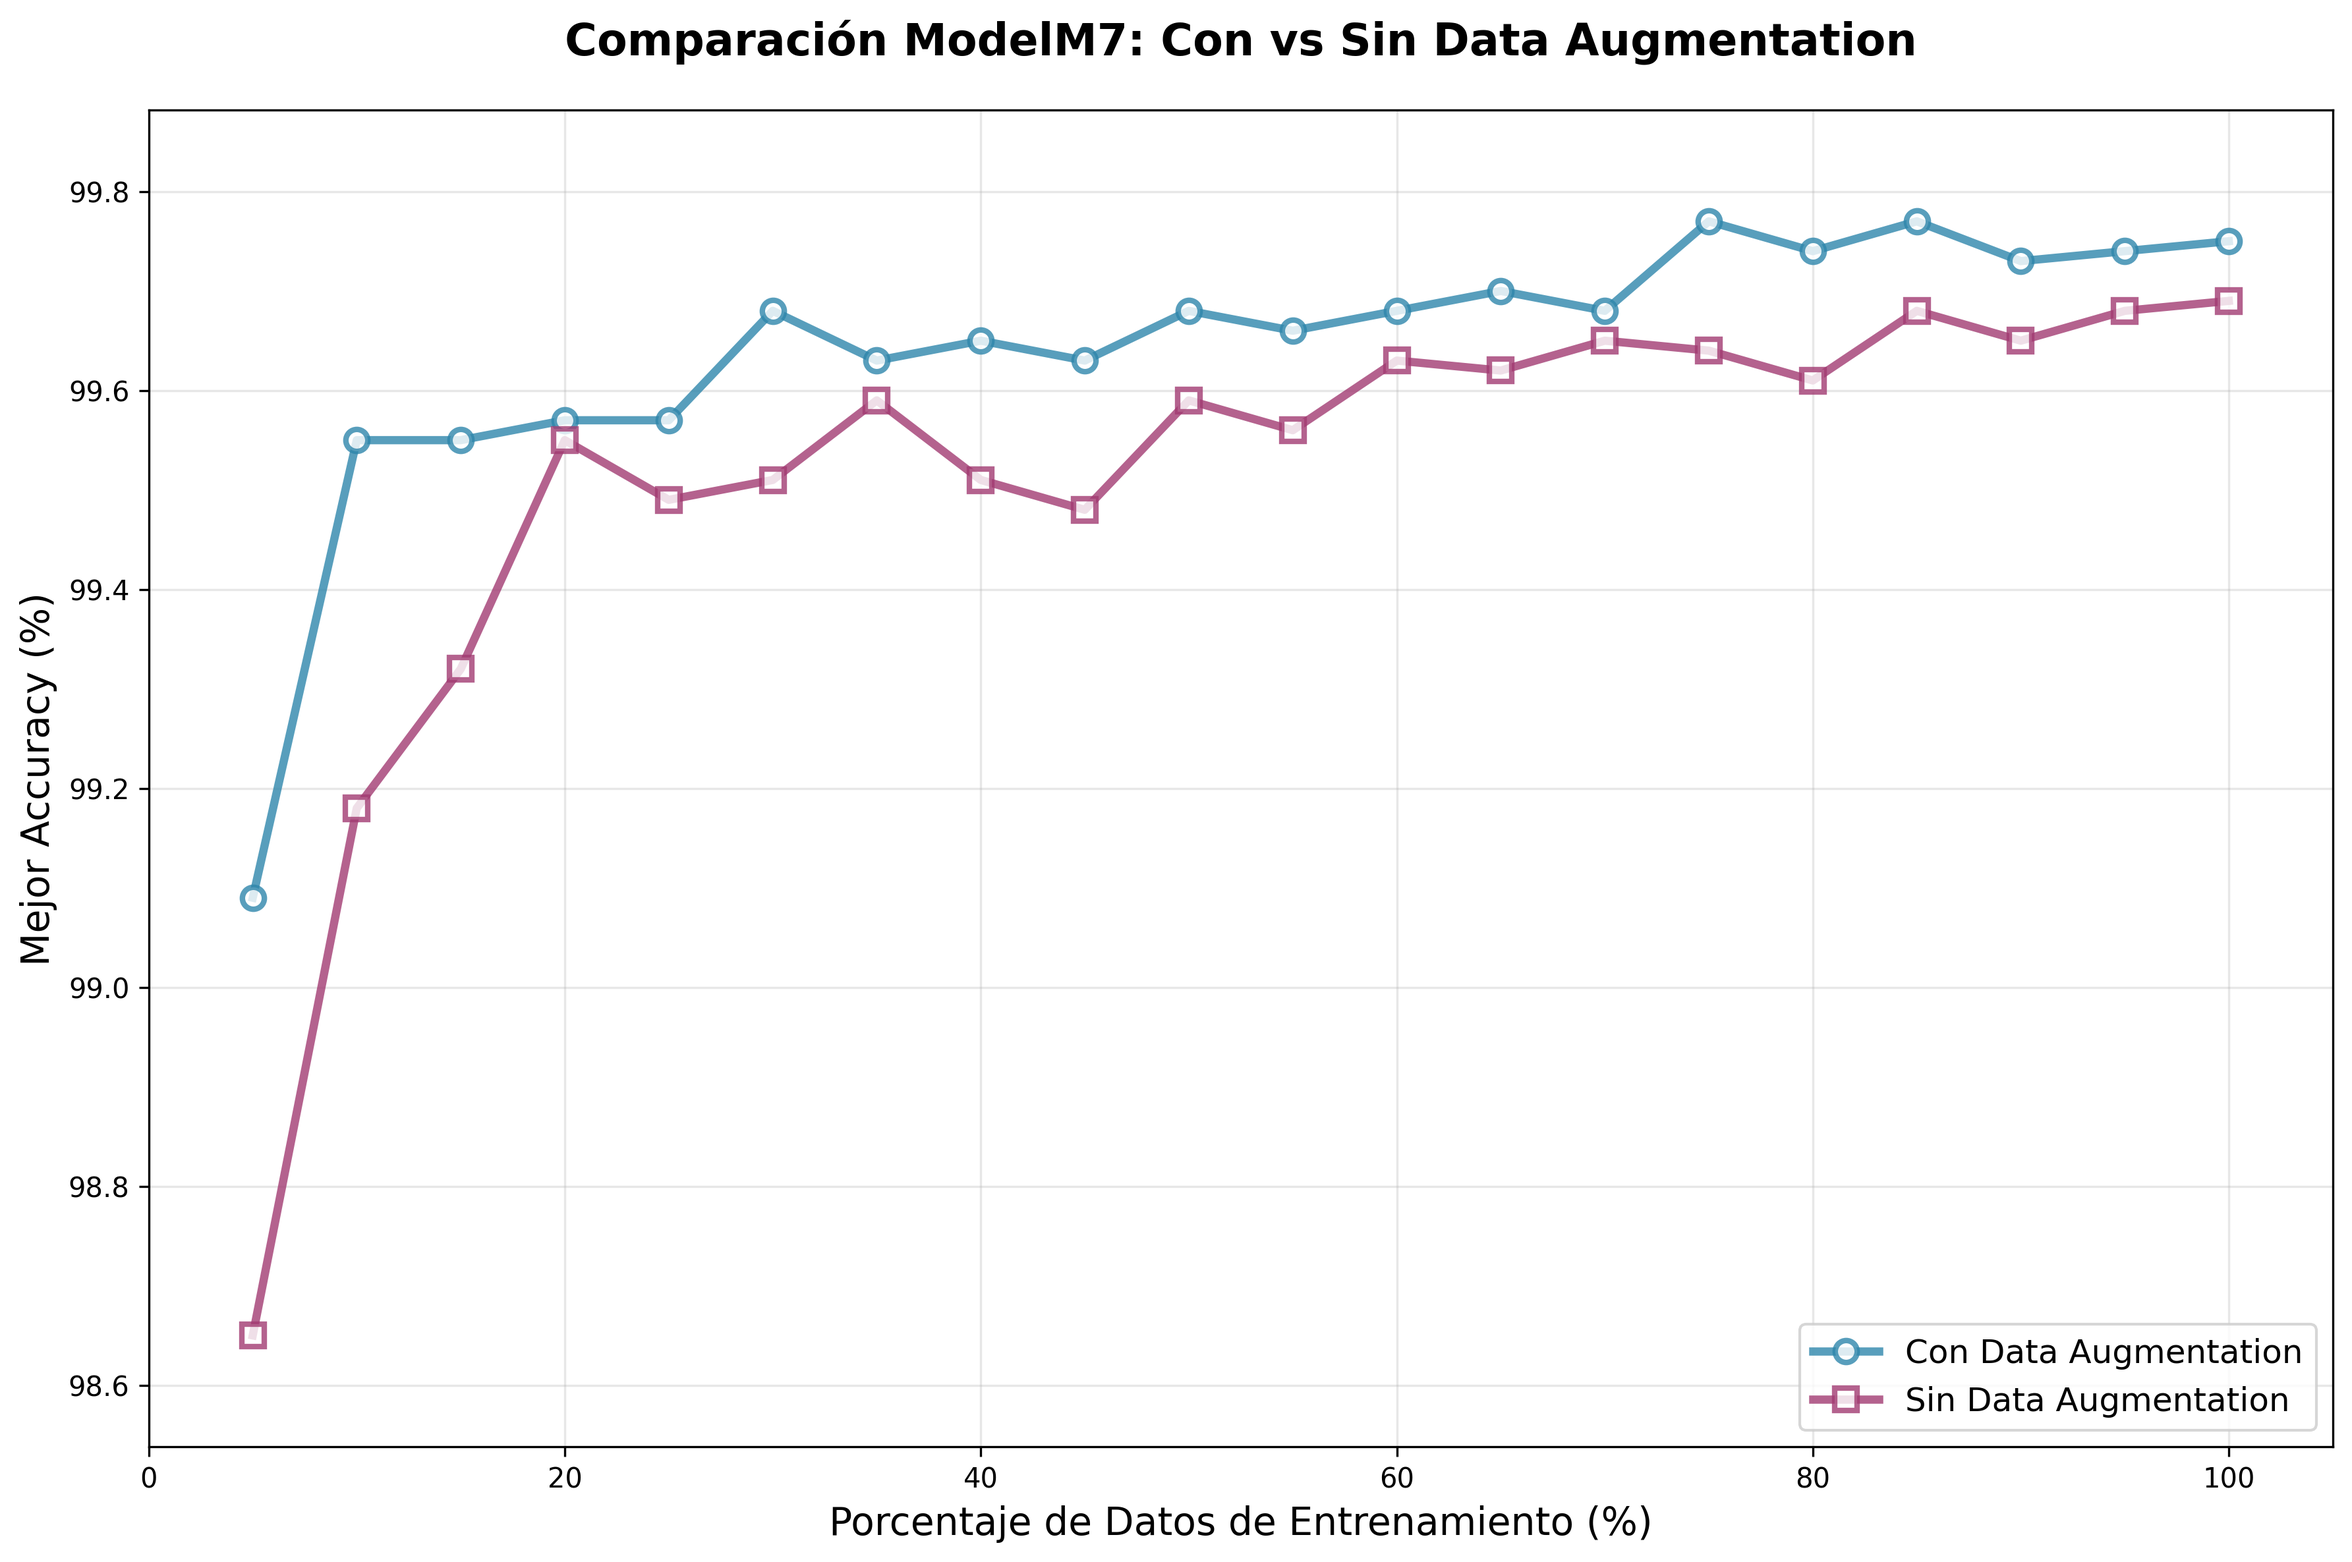
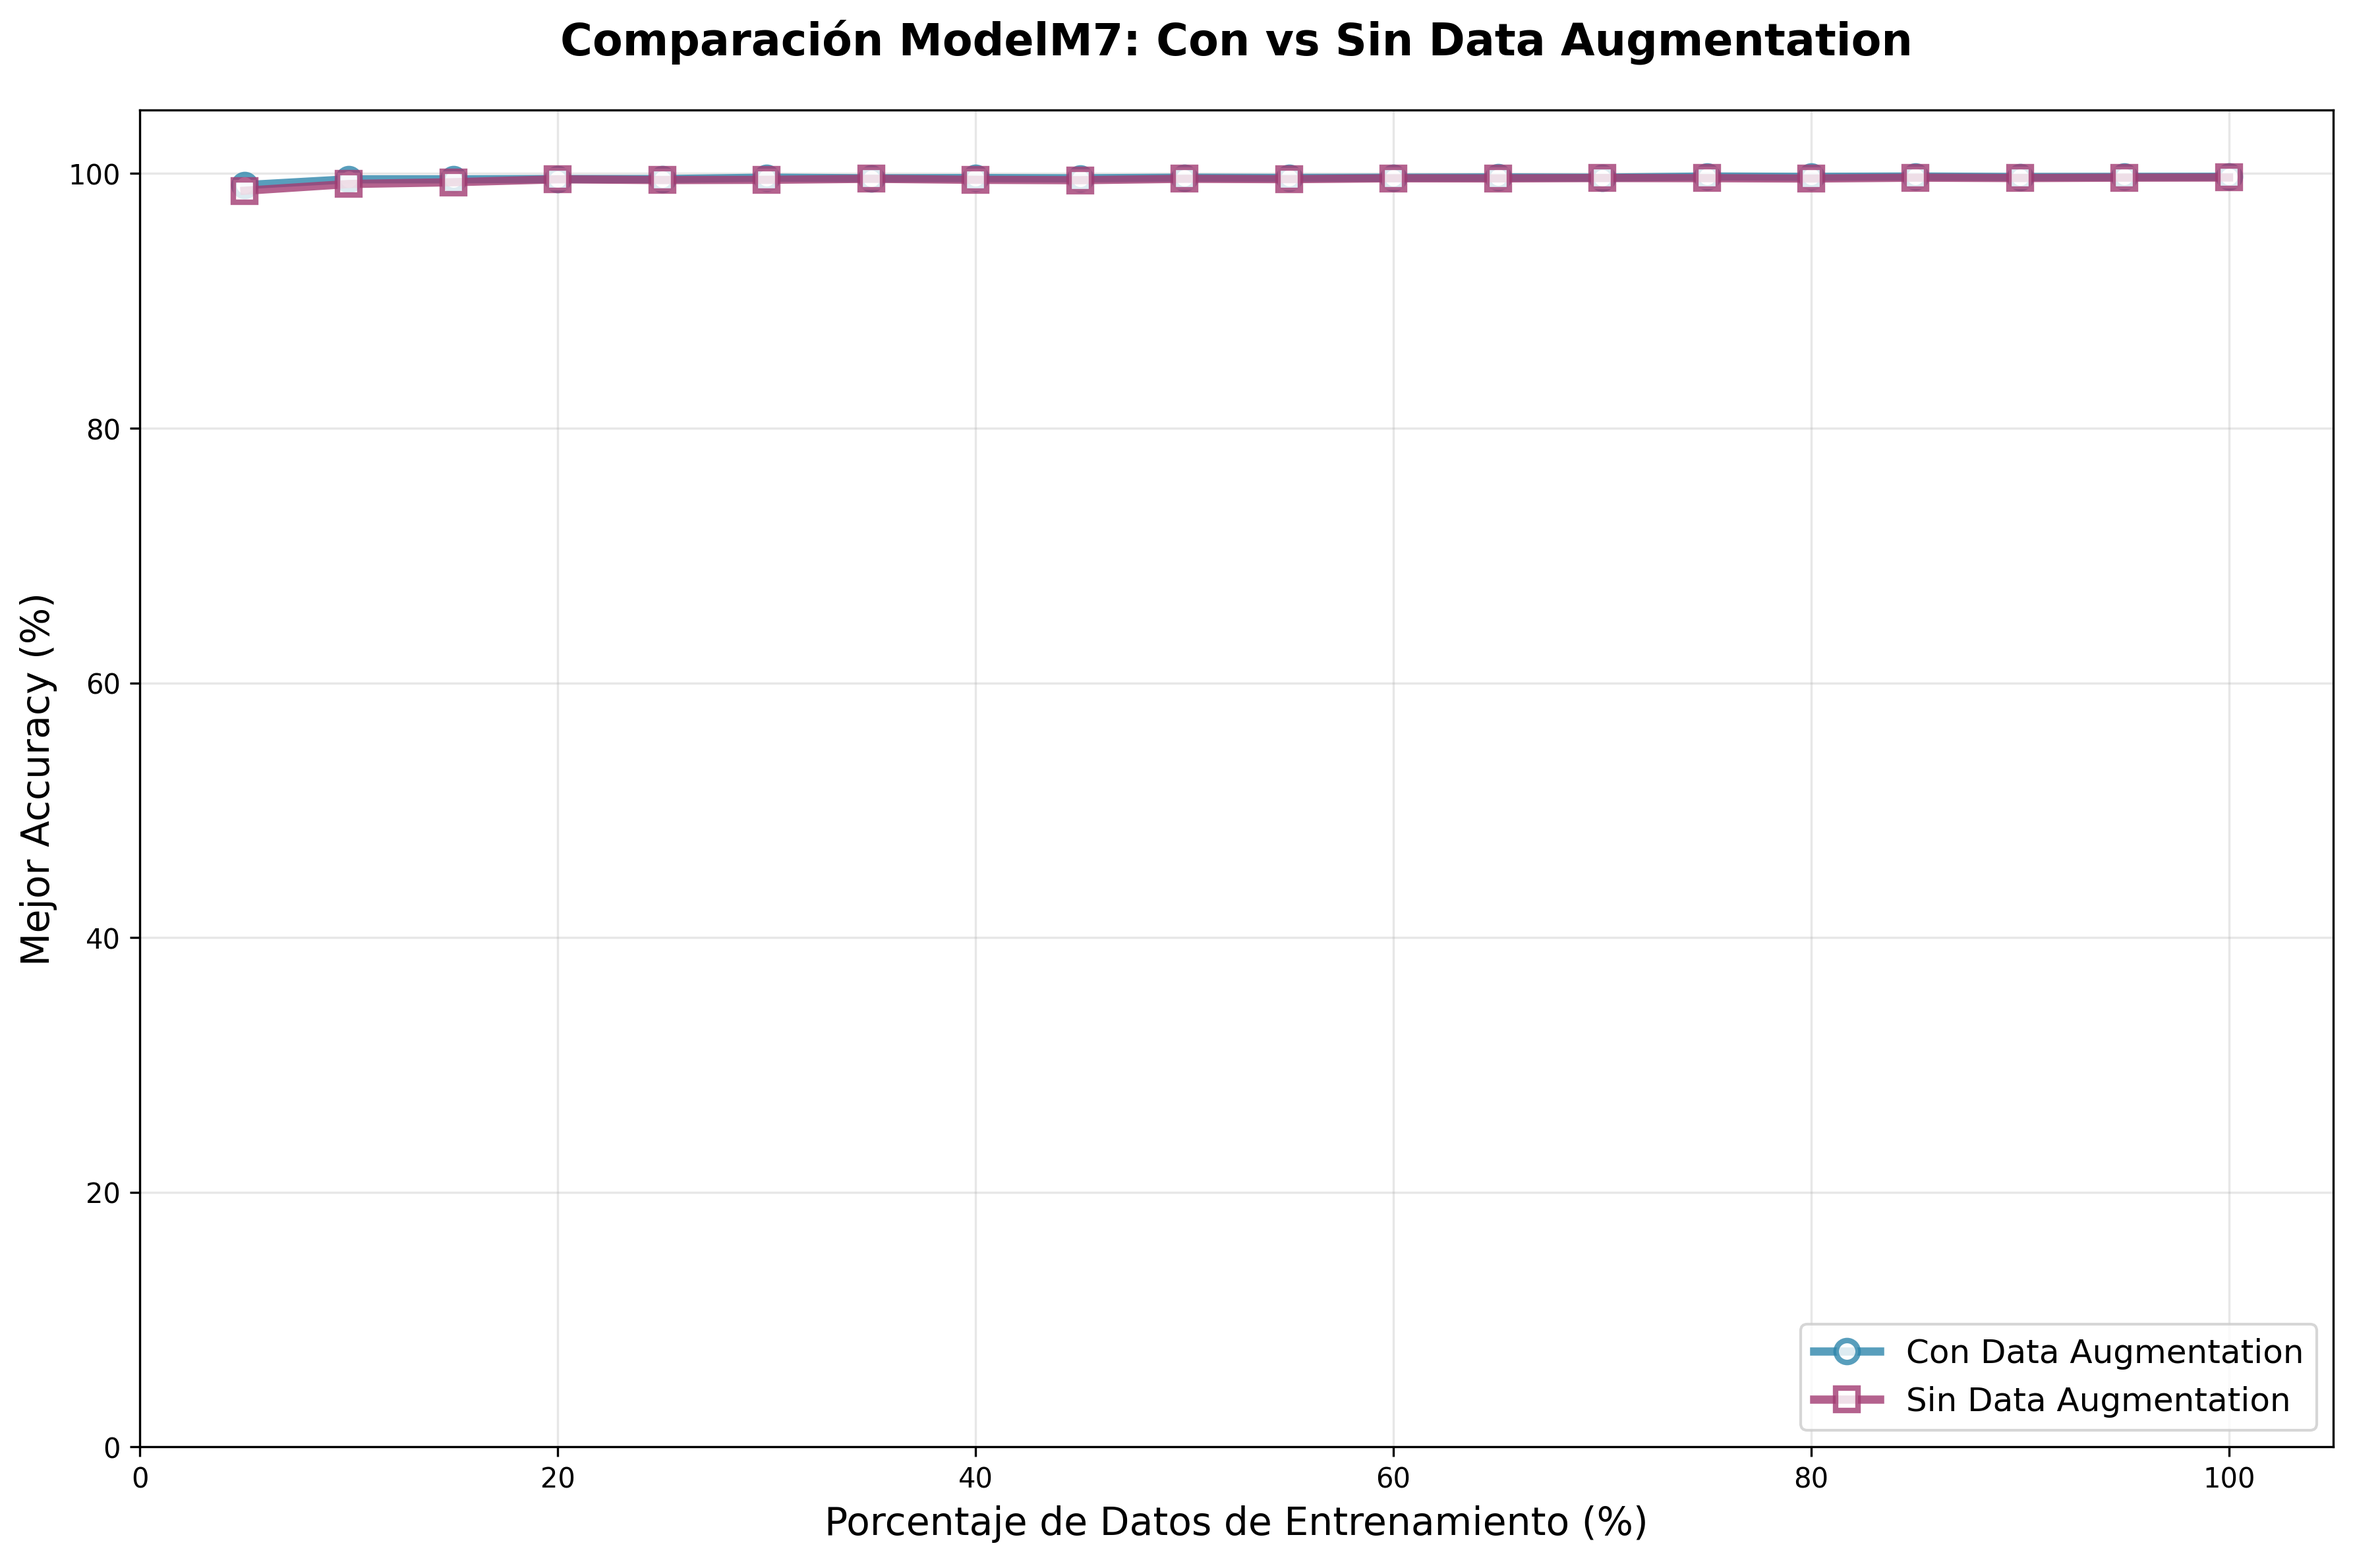
plots

diff --git a/code/plot_progressive_results.py b/code/plot_progressive_results.py
@@ -79,13 +79,8 @@ def plot_comparison_graphs():
         ax1.grid(True, alpha=0.3)
         ax1.set_xlim(0, 105)
         
-        # Configurar ticks del eje y
-        min_acc = min(accuracies_aug)
-        max_acc = max(accuracies_aug)
-        y_range = max_acc - min_acc
-        y_min = max(min_acc - y_range * 0.1, 98.0)  # Mínimo 98%
-        y_max = min(max_acc + y_range * 0.1, 100.0)  # Máximo 100%
-        ax1.set_ylim(y_min, y_max)
+        # Configurar ticks del eje y (0 a 100)
+        ax1.set_ylim(0, 105)
         
         # Añadir valores en puntos clave
         for i, (x, y) in enumerate(zip(percentages_aug, accuracies_aug)):
@@ -117,13 +112,8 @@ def plot_comparison_graphs():
         ax2.grid(True, alpha=0.3)
         ax2.set_xlim(0, 105)
         
-        # Configurar ticks del eje y
-        min_acc = min(accuracies_no_aug)
-        max_acc = max(accuracies_no_aug)
-        y_range = max_acc - min_acc
-        y_min = max(min_acc - y_range * 0.1, 98.0)  # Mínimo 98%
-        y_max = min(max_acc + y_range * 0.1, 100.0)  # Máximo 100%
-        ax2.set_ylim(y_min, y_max)
+        # Configurar ticks del eje y (0 a 100)
+        ax2.set_ylim(0, 105)
         
         # Añadir valores en puntos clave
         for i, (x, y) in enumerate(zip(percentages_no_aug, accuracies_no_aug)):
@@ -211,14 +201,8 @@ def plot_combined_comparison():
     plt.grid(True, alpha=0.3)
     plt.xlim(0, 105)
     
-    # Configurar rango del eje y
-    all_accuracies = accuracies_aug + accuracies_no_aug
-    min_acc = min(all_accuracies)
-    max_acc = max(all_accuracies)
-    y_range = max_acc - min_acc
-    y_min = max(min_acc - y_range * 0.1, 98.0)
-    y_max = min(max_acc + y_range * 0.1, 100.0)
-    plt.ylim(y_min, y_max)
+    # Configurar rango del eje y (0 a 100)
+    plt.ylim(0, 105)
     
     # Ajustar layout
     plt.tight_layout()
